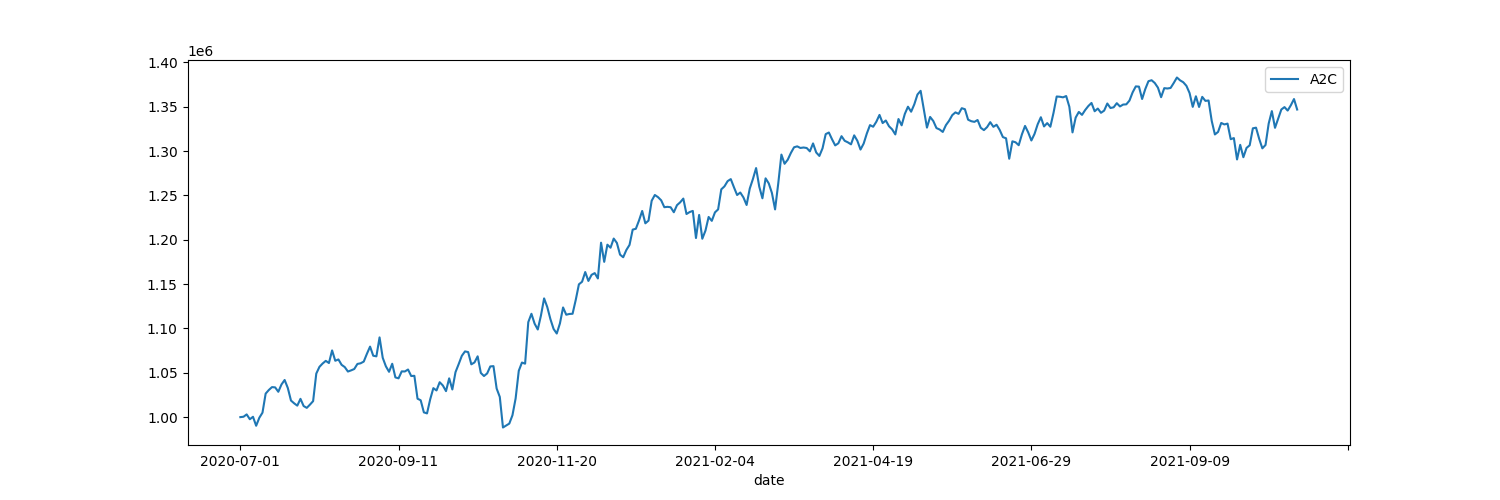
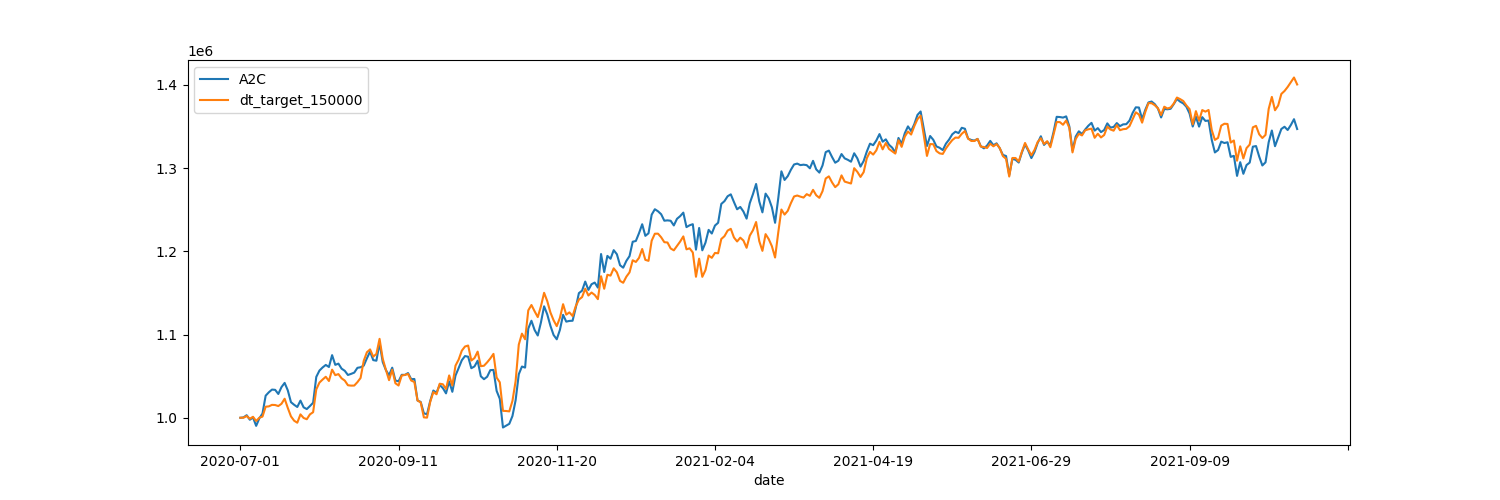
add

diff --git a/eval.py b/eval.py
@@ -1,0 +1,118 @@
+import argparse
+import torch
+import numpy as np
+from decision_transformer.models.decision_transformer import DecisionTransformer
+from decision_transformer.evaluation.evaluate_episodes import evaluate_episode_rtg
+from finrl.meta.env_stock_trading.env_stocktrading import StockTradingEnv
+import pandas as pd
+from finrl.config import INDICATORS
+from transformers import GPT2Config
+
+# Load environment data
+trade = pd.read_csv('trade_data.csv')
+trade = trade.set_index(trade.columns[0])
+trade.index.names = ['']
+
+stock_dimension = len(trade.tic.unique())
+state_space = 1 + 2*stock_dimension + len(INDICATORS)*stock_dimension
+print(f"Stock Dimension: {stock_dimension}, State Space: {state_space}")
+
+buy_cost_list = sell_cost_list = [0.001] * stock_dimension
+num_stock_shares = [0] * stock_dimension
+
+env_kwargs = {
+    "hmax": 100,
+    "initial_amount": 1000000,
+    "num_stock_shares": num_stock_shares,
+    "buy_cost_pct": buy_cost_list,
+    "sell_cost_pct": sell_cost_list,
+    "state_space": state_space,
+    "stock_dim": stock_dimension,
+    "tech_indicator_list": INDICATORS,
+    "action_space": stock_dimension,
+    "reward_scaling": 1e-4
+}
+
+def evaluate(args):
+    # Set up environment
+    env = StockTradingEnv(df=trade, turbulence_threshold=70, risk_indicator_col='vix', **env_kwargs)
+    state_dim = env.observation_space.shape[0]
+    act_dim = env.action_space.shape[0]
+    max_ep_len = 755
+    scale = 1e6
+
+    # Load pretrained model config
+    config = GPT2Config.from_pretrained(args.pretrained_lm)
+    config.resid_pdrop = args.dropout
+
+    # Initialize model with pretrained weights
+    model = DecisionTransformer(
+        args=args,
+        state_dim=state_dim,
+        act_dim=act_dim,
+        max_length=args.K,
+        max_ep_len=max_ep_len,
+        hidden_size=config.n_embd,
+        n_layer=config.n_layer,
+        n_head=config.n_head,
+        n_inner=4 * config.n_embd,
+        activation_function=config.activation_function,
+        n_positions=config.n_positions,
+        resid_pdrop=config.resid_pdrop,
+        attn_pdrop=config.attn_pdrop,
+        mlp_embedding=args.mlp_embedding
+    )
+    
+    # Load pretrained weights
+    model.transformer_model.load_state_dict(torch.load(args.pretrained_lm_path))
+
+    # Load LoRA parameters
+    lora_state_dict = torch.load(args.lora_path)
+    model.load_state_dict(lora_state_dict, strict=False)
+
+    model.to(args.device)
+    model.eval()
+
+    # Evaluate for different target rewards
+    target_rewards = [1_000_000, 1_250_000, 1_500_000, 1_750_000, 2_000_000]
+    for target_rew in target_rewards:
+        returns = []
+        for _ in range(args.num_eval_episodes):
+            with torch.no_grad():
+                ret, _ = evaluate_episode_rtg(
+                    env,
+                    state_dim,
+                    act_dim,
+                    model,
+                    max_ep_len=max_ep_len,
+                    scale=scale,
+                    target_return=target_rew / scale,
+                    mode="normal",
+                    state_mean=None,
+                    state_std=None,
+                    device=args.device,
+                )
+            returns.append(ret)
+        
+        mean_return = np.mean(returns)
+        std_return = np.std(returns)
+        print(f"Target reward: {target_rew}")
+        print(f"Mean return: {mean_return:.2f}")
+        print(f"Std return: {std_return:.2f}")
+        print("-------------------------")
+
+if __name__ == "__main__":
+    parser = argparse.ArgumentParser()
+    parser.add_argument("--lora_path", type=str, required=True, help="Path to the saved LoRA parameters")
+    parser.add_argument("--pretrained_lm", type=str, required=True, help="Name or path of the pretrained language model")
+    parser.add_argument("--pretrained_lm_path", type=str, required=True, help="Path to the pretrained language model weights")
+    parser.add_argument("--device", type=str, default="cuda")
+    parser.add_argument("--env", type=str, default="stock_trading")
+    parser.add_argument("--dataset", type=str, default="your_dataset_name")
+    parser.add_argument("--K", type=int, default=20)
+    parser.add_argument("--dropout", type=float, default=0.1)
+    parser.add_argument("--mlp_embedding", action="store_true")
+    parser.add_argument("--num_eval_episodes", type=int, default=10)
+    
+    args = parser.parse_args()
+    evaluate(args)

diff --git a/back_test_new.py b/back_test_new.py
@@ -1,0 +1,99 @@
+import sys
+import pandas as pd
+import numpy as np
+import matplotlib.pyplot as plt
+import pickle
+from finrl.meta.preprocessor.yahoodownloader import YahooDownloader
+from finrl.meta.env_stock_trading.env_stocktrading import StockTradingEnv
+from finrl.agents.stablebaselines3.models import DRLAgent
+from stable_baselines3 import A2C, DDPG, PPO, SAC, TD3
+
+from finrl.config import INDICATORS, TRAINED_MODEL_DIR
+
+
+train = pd.read_csv('train_data.csv')
+trade = pd.read_csv('trade_data.csv')
+
+# If you are not using the data generated from part 1 of this tutorial, make sure 
+# it has the columns and index in the form that could be make into the environment. 
+# Then you can comment and skip the following lines.
+train = train.set_index(train.columns[0])
+train.index.names = ['']
+trade = trade.set_index(trade.columns[0])
+trade.index.names = ['']
+
+if_using_a2c = True
+# if_using_ddpg = True
+# if_using_ppo = True
+# if_using_td3 = True
+# if_using_sac = True
+
+trained_a2c = A2C.load(TRAINED_MODEL_DIR + "/agent_a2c") if if_using_a2c else None
+# trained_ddpg = DDPG.load(TRAINED_MODEL_DIR + "/agent_ddpg") if if_using_ddpg else None
+# trained_ppo = PPO.load(TRAINED_MODEL_DIR + "/agent_ppo") if if_using_ppo else None
+# trained_td3 = TD3.load(TRAINED_MODEL_DIR + "/agent_td3") if if_using_td3 else None
+# trained_sac = SAC.load(TRAINED_MODEL_DIR + "/agent_sac") if if_using_sac else None
+
+stock_dimension = len(trade.tic.unique())
+state_space = 1 + 2*stock_dimension + len(INDICATORS)*stock_dimension
+print(f"Stock Dimension: {stock_dimension}, State Space: {state_space}")
+
+
+buy_cost_list = sell_cost_list = [0.001] * stock_dimension
+num_stock_shares = [0] * stock_dimension
+
+env_kwargs = {
+    "hmax": 100,
+    "initial_amount": 1000000,
+    "num_stock_shares": num_stock_shares,
+    "buy_cost_pct": buy_cost_list,
+    "sell_cost_pct": sell_cost_list,
+    "state_space": state_space,
+    "stock_dim": stock_dimension,
+    "tech_indicator_list": INDICATORS,
+    "action_space": stock_dimension,
+    "reward_scaling": 1e-4
+}
+
+e_trade_gym = StockTradingEnv(df = trade, turbulence_threshold = 70,risk_indicator_col='vix', **env_kwargs)
+env_trade, obs_trade = e_trade_gym.get_sb_env()
+
+df_account_value_a2c, df_actions_a2c = DRLAgent.DRL_prediction(
+    model=trained_a2c, 
+    environment = e_trade_gym) if if_using_a2c else (None, None)
+
+
+df_result_a2c = df_account_value_a2c.set_index(df_account_value_a2c.columns[0]) if if_using_a2c else None
+# df_result_ddpg = df_account_value_ddpg.set_index(df_account_value_ddpg.columns[0]) if if_using_ddpg else None
+# df_result_ppo = df_account_value_ppo.set_index(df_account_value_ppo.columns[0]) if if_using_ppo else None
+# df_result_td3 = df_account_value_td3.set_index(df_account_value_td3.columns[0]) if if_using_td3 else None
+# df_result_sac = df_account_value_sac.set_index(df_account_value_sac.columns[0]) if if_using_sac else None
+
+
+result = pd.DataFrame()
+if if_using_a2c: result = pd.merge(result, df_result_a2c, how='outer', left_index=True, right_index=True)
+
+# Load the pickle file
+with open('./total_asset_value_list.pkl', 'rb') as f:
+    total_asset_value_list = pickle.load(f)
+
+# Create a new dataframe with the loaded data
+dt_target_df = pd.DataFrame(total_asset_value_list, columns=['dt_target_150000'])
+dt_target_df.index = result.index  # Assuming the dates align with the existing result dataframe
+
+# Add the new data to the result dataframe
+result = pd.merge(result, dt_target_df, left_index=True, right_index=True)
+
+col_name = []
+col_name.append('A2C') if if_using_a2c else None
+col_name.append('dt_target_150000')
+result.columns = col_name
+
+plt.rcParams["figure.figsize"] = (15,5)
+plt.figure()
+result.plot()
+plt.savefig('backtest_result.png')  # Save the plot as an image file
+plt.close()
+
+# Optionally, you can save the updated result dataframe
+result.to_csv('updated_backtest_result.csv')

diff --git a/decision_transformer/evaluation/evaluate_episodes.py b/decision_transformer/evaluation/evaluate_episodes.py
@@ -186,7 +186,7 @@ def evaluate_episode_rtg(
 
         if done:
             import pickle
-            with open('total_asset_value_list.pkl', 'wb') as f:
+            with open(f'total_asset_value_list_{target_return}.pkl', 'wb') as f:
                 pickle.dump(total_asset_value_list, f)
 
             break
